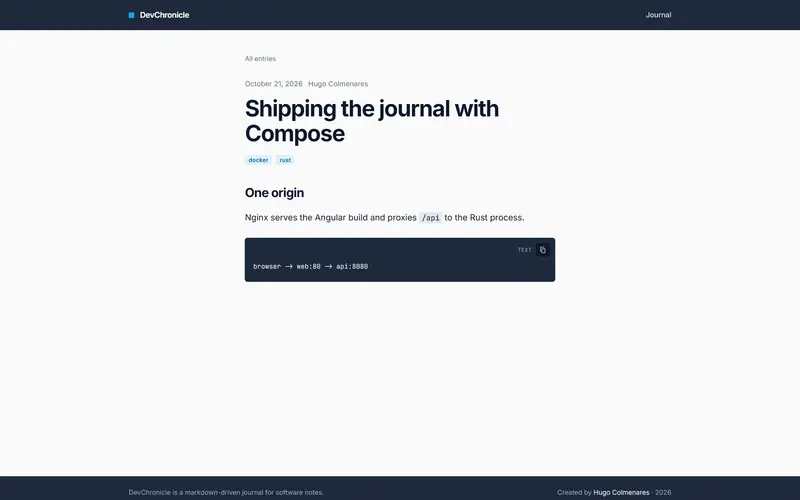
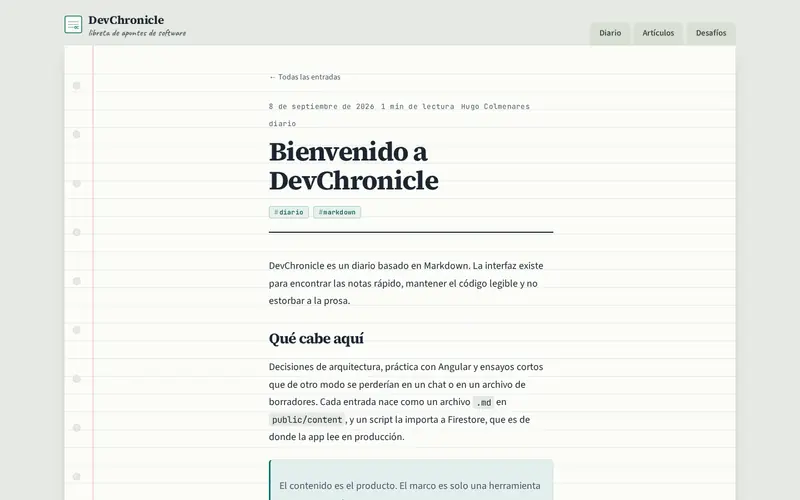
feat(projects): actualiza DevChronicle con la libreta, la copia sin conexión y capturas nuevas
New notebook-style covers (landing, article, mobile, offline notice), Spanish/English copy aligned with the live Firebase journal, and a third gallery image for the offline state.

diff --git a/src/app/core/data/project-curation.ts b/src/app/core/data/project-curation.ts
@@ -235,48 +235,51 @@ export const PROJECT_CURATION: Record<string, ProjectCuration> = {
     title: 'DevChronicle',
     liveUrl: 'https://devchronicle-hugo.web.app',
     summary: {
-      en: 'Markdown journal in three repos: Angular client, Rust/Axum API on SQLite, and a Compose stack behind nginx.',
-      es: 'Diario en Markdown en tres repos: cliente Angular, API en Rust/Axum sobre SQLite y un stack Compose detrás de nginx.',
+      en: 'Technical journal in Angular 22 and Firebase (Spark plan), with a notebook look, a clearly labeled offline copy and an author Studio.',
+      es: 'Diario técnico en Angular 22 y Firebase (plan Spark), con diseño de libreta de apuntes, copia sin conexión señalada y un Estudio para el autor.',
     },
     description: {
-      es: 'Cliente Angular 22 para un diario en Markdown. La portada muestra una entrada destacada y un catálogo filtrable por etiquetas. /post/:slug mantiene una medida de 70 caracteres, carga Highlight.js de forma diferida y permite copiar bloques de código. El Markdown se compila en el navegador con marked, se sanea con DOMPurify y se renderiza con vistas diferidas. Si la API no responde, las mismas rutas leen public/content.',
+      en: 'Technical journal in Angular 22 with a notebook-style design, live on Firebase Hosting (Spark plan: Firestore, Google Auth and Hosting). The home page shows the latest entry, a tag cloud and the catalog; the reader keeps a comfortable measure, highlights code and lets you copy it. If Firestore is down, a static snapshot is served and clearly marked as offline, with its date and a retry button. Estudio (visible only to the author) edits Markdown, detects save conflicts and exports a backup. The whole interface is in Spanish, with end-to-end and accessibility tests and automatic deploys on GitHub Actions.',
+      es: 'Diario técnico en Angular 22 con diseño de libreta de apuntes, publicado en Firebase Hosting (plan Spark: Firestore, Auth con Google y Hosting). La portada muestra la entrada más reciente, una nube de etiquetas y el catálogo; el lector mantiene una medida cómoda de lectura, resalta el código y permite copiarlo. Si Firestore no responde, se sirve una copia estática claramente marcada como «sin conexión», con la fecha de la copia y un botón para reintentar. El Estudio (visible solo para el autor) edita en Markdown, detecta conflictos al guardar y exporta una copia de seguridad. Toda la interfaz está en español, con pruebas de punta a punta, revisión de accesibilidad y despliegue automático en GitHub Actions.',
     },
     caseStudy: {
       context: {
-        en: 'A personal technical journal used as a full-stack exercise: a static-friendly Angular client, a small typed API and a one-command local deployment.',
-        es: 'Un diario técnico personal usado como ejercicio full-stack: un cliente Angular que tolera ser estático, una API pequeña y tipada y un despliegue local de un solo comando.',
+        en: 'A personal technical journal that had to stay honest as a static site: readable typography, a public catalog, and an author desk that stays out of the way of the reader, all on the Firebase Spark plan.',
+        es: 'Un diario técnico personal que debía seguir siendo honesto como sitio estático: tipografía de lectura, un catálogo público y un escritorio de autor que no se interponga al lector, todo en el plan Spark de Firebase.',
       },
       built: {
         en: [
-          'Landing page with a featured entry and a tag-filterable catalog.',
-          'Article view with a 70-character measure, lazy-loaded Highlight.js and copy buttons on code fences.',
-          'Rust Axum API on SQLite: public reads, Bearer-token writes, hidden drafts and validated slugs.',
-          'Compose stack: nginx serves the Angular build and proxies /api/ on the same origin.',
+          'Notebook-style interface (ruled sheet, margin, tabs and sticky notes) with a dark “night notebook” mode and WCAG AA contrast.',
+          'Home page with the latest entry, a collapsible tag cloud and a filterable catalog; article reader with lazy syntax highlighting and copy buttons.',
+          'Estudio (author only): Markdown editor, optimistic concurrency with a conflict dialog, and one-click backup export.',
+          'When Firestore is down, a build-time snapshot at /offline/journal.json is shown under a clear “you are reading offline” notice, with the snapshot date and a retry button.',
+          'End-to-end Playwright tests with axe, Firestore rules tests, and CI/CD on GitHub Actions (lint, tests, Hosting deploy, optional preview channels).',
         ],
         es: [
-          'Portada con una entrada destacada y un catálogo filtrable por etiquetas.',
-          'Vista de artículo con medida de 70 caracteres, Highlight.js diferido y botón para copiar bloques de código.',
-          'API en Rust con Axum sobre SQLite: lecturas públicas, escrituras con token Bearer, borradores ocultos y slugs validados.',
-          'Stack con Compose: nginx sirve el build de Angular y redirige /api/ en el mismo origen.',
+          'Interfaz de libreta de apuntes (hoja con renglones, margen, pestañas y notas adhesivas), con modo oscuro de «libreta nocturna» y contraste WCAG AA.',
+          'Portada con la entrada más reciente, una nube de etiquetas plegable y un catálogo filtrable; lector con resaltado diferido y botón para copiar el código.',
+          'Estudio (solo el autor): editor en Markdown, concurrencia optimista con diálogo de conflicto y exportación de copia de seguridad en un clic.',
+          'Si Firestore no responde, se muestra la copia generada en el build (/offline/journal.json) bajo el aviso «Estás leyendo sin conexión», con la fecha y un botón para reintentar.',
+          'Pruebas de punta a punta con Playwright y axe, pruebas de reglas de Firestore y CI/CD en GitHub Actions (lint, tests, despliegue a Hosting y canales de vista previa).',
         ],
       },
       decisions: {
         en: [
-          'Markdown compiled in the browser with marked and sanitized with DOMPurify.',
-          'When the API is down, the same routes read static files from public/content.',
-          'sqlx migrations embedded in the binary; a seed binary loads content once with ON CONFLICT DO NOTHING.',
-          'SQLite in a named volume: compose down keeps the journal, down -v deletes it.',
+          'Markdown is compiled in the browser with marked and sanitized with DOMPurify.',
+          'The offline snapshot is never silent: it is always labelled, can be stale, and a missing slug is never filled in from the copy.',
+          'Deploy-time import of the Markdown corpus is off by default, so Estudio edits are not overwritten. App Check is ready behind FIREBASE_APPCHECK_SITE_KEY.',
+          'Sibling repos (a Rust/Axum API and a Compose stack) remain as earlier exercises; the live site is the Firebase journal.',
         ],
         es: [
-          'Markdown compilado en el navegador con marked y saneado con DOMPurify.',
-          'Si la API no responde, las mismas rutas leen archivos estáticos de public/content.',
-          'Migraciones sqlx embebidas en el binario; un binario de seed carga el contenido una vez con ON CONFLICT DO NOTHING.',
-          'SQLite en un volumen con nombre: compose down conserva el diario y down -v lo borra.',
+          'El Markdown se compila en el navegador con marked y se sanea con DOMPurify.',
+          'La copia sin conexión nunca es silenciosa: siempre se señala, puede estar desactualizada, y una entrada inexistente no se rellena con la copia.',
+          'La importación del Markdown al desplegar está apagada por defecto, para no pisar lo editado en el Estudio. App Check queda listo detrás de FIREBASE_APPCHECK_SITE_KEY.',
+          'Los repos hermanos (una API en Rust/Axum y un stack con Compose) quedan como ejercicios anteriores; el sitio en vivo es el diario en Firebase.',
         ],
       },
       status: {
-        en: 'Live on Firebase Hosting (Firestore + Google Auth); also runs locally with Docker Compose.',
-        es: 'Publicado en Firebase Hosting (Firestore + Auth con Google); también corre en local con Docker Compose.',
+        en: 'Live on Firebase Hosting at https://devchronicle-hugo.web.app. Public repository. Interface in Spanish.',
+        es: 'Publicado en Firebase Hosting en https://devchronicle-hugo.web.app. Repositorio público. Interfaz en español.',
       },
     },
     related: [
@@ -284,8 +287,9 @@ export const PROJECT_CURATION: Record<string, ProjectCuration> = {
       { label: 'DevChronicle (Compose)', url: `${GH}/DevChronicle` },
     ],
     gallery: [
-      { src: '/img/projects/gallery-article-desktop', alt: { en: 'Article page served by the composed stack', es: 'Página de artículo servida por el stack de Compose' } },
-      { src: '/img/projects/gallery-landing-mobile', alt: { en: 'Landing page on a narrow viewport', es: 'Portada en una pantalla angosta' } },
+      { src: '/img/projects/gallery-article-desktop', alt: { en: 'Article reader in the notebook layout', es: 'Lector de un artículo con la libreta de apuntes' } },
+      { src: '/img/projects/gallery-landing-mobile', alt: { en: 'Home page on a narrow viewport', es: 'Portada en una pantalla angosta' } },
+      { src: '/img/projects/gallery-devchronicle-offline', alt: { en: 'Offline copy with the “you are reading offline” notice and retry button', es: 'Copia sin conexión, con el aviso «Estás leyendo sin conexión» y el botón para reintentar' } },
     ],
   },
 
